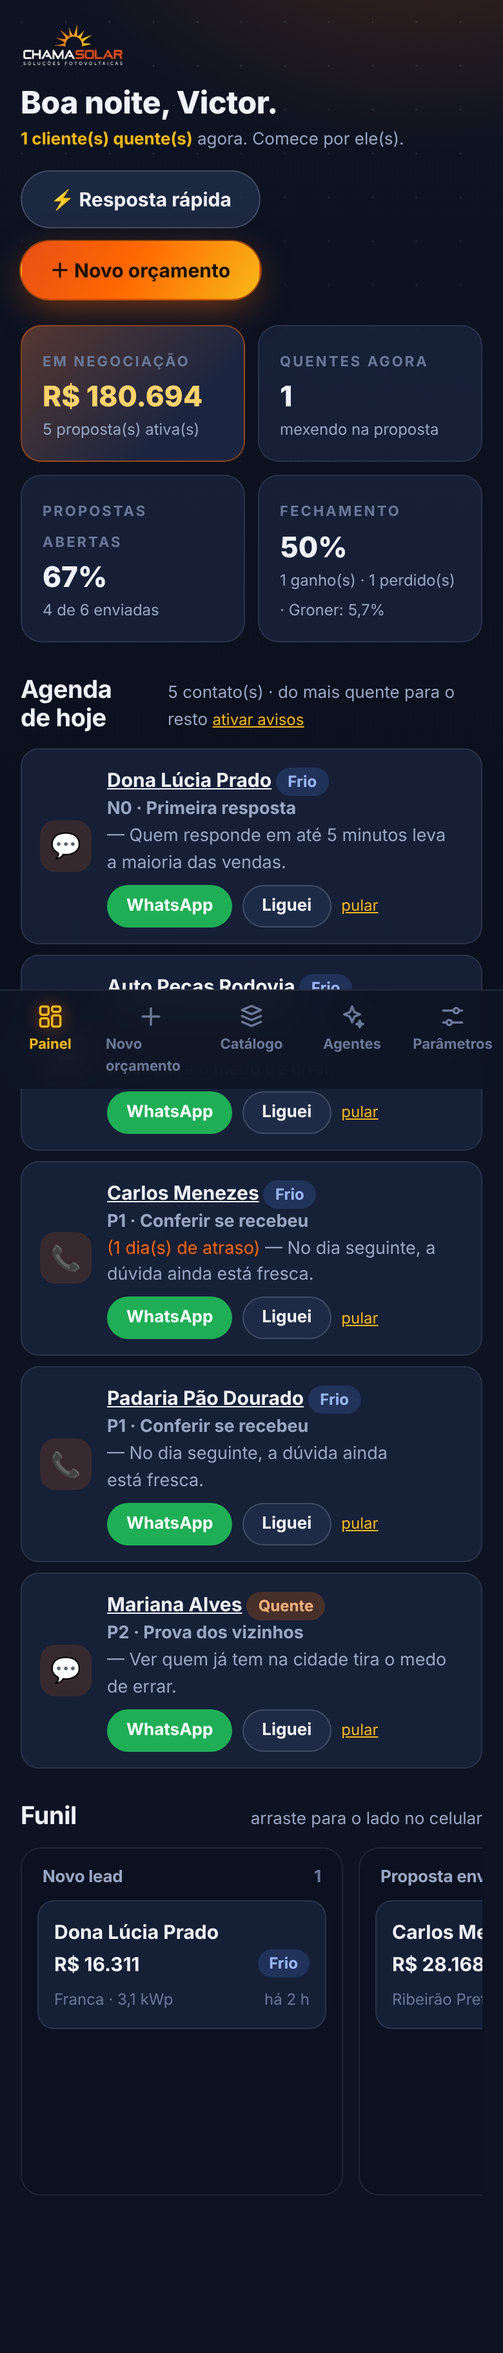
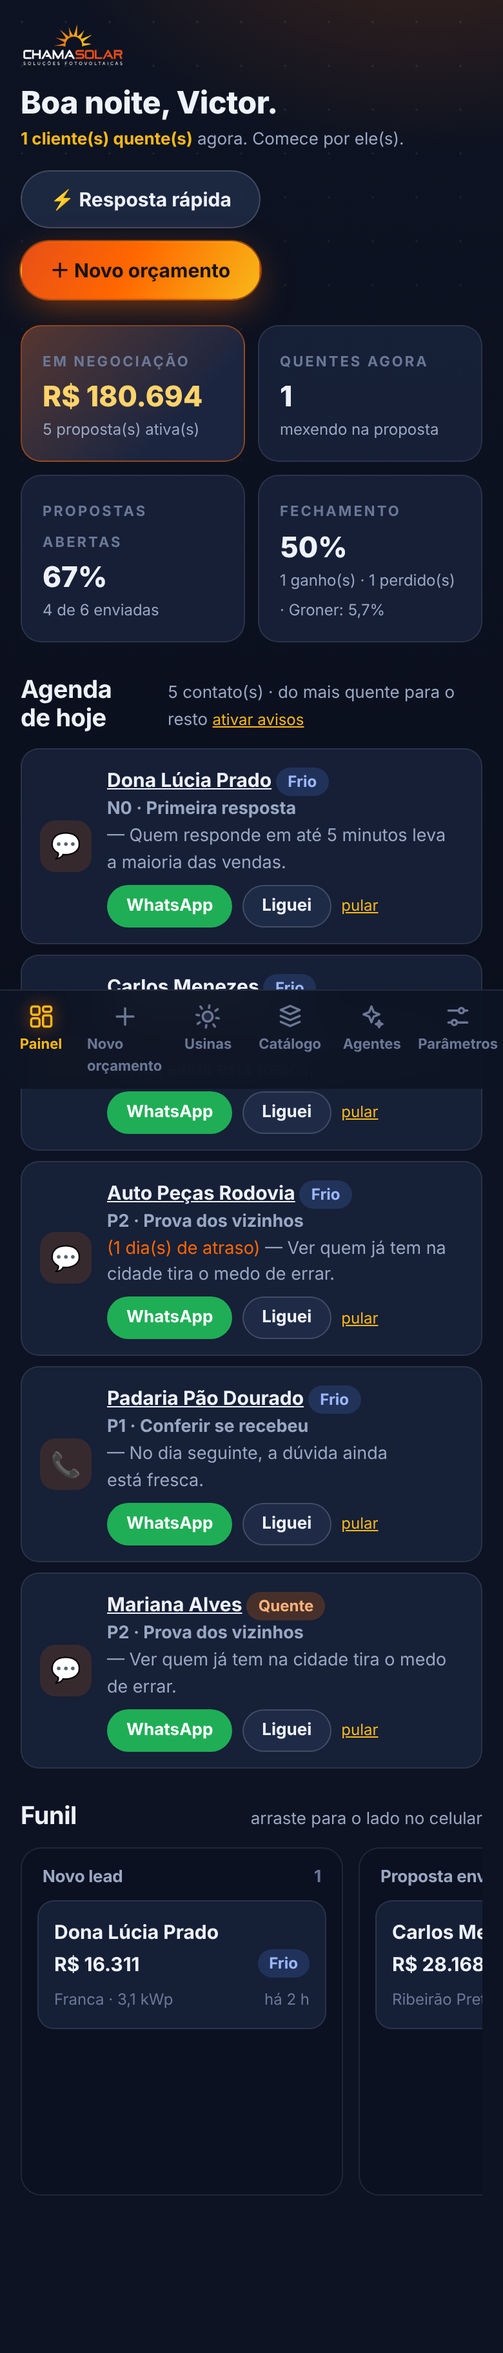
solar: usinas e geração (sol_usinas, sol_geracao), relatório mensal e alertas
Claude-Session: https://claude.ai/code/session_015QPda75H8frapF8mWbJQ5q

diff --git a/solar-teste/js/app.js b/solar-teste/js/app.js
@@ -168,6 +168,7 @@
           <button class="btn sol pequeno" id="docPdf">${Icone('documento')} Proposta em PDF</button>
           <button class="btn vidro pequeno" id="docContrato">Contrato</button>
           <button class="btn vidro pequeno" id="docProc">Procuração CPFL</button>
+          ${o.status === 'ganho' ? '<button class="btn vidro pequeno" id="virarUsina">Cadastrar usina</button>' : ''}
         </div>
         <details style="margin-top:10px"><summary class="link">Dados do cliente para contrato e procuração</summary>
           <div class="grade g2" style="margin-top:10px">${[['documento', 'CPF ou CNPJ'], ['rg', 'RG'], ['estadoCivil', 'Estado civil'], ['profissao', 'Profissão'], ['endereco', 'Endereço completo (rua, nº, bairro, cidade, CEP)'], ['instalacao', 'Nº da instalação na CPFL'], ['condicao', 'Condição de pagamento (ex.: entrada + 60x)']]
@@ -227,6 +228,7 @@
     $('#docPdf').onclick = () => { Documentos.proposta(o, p, o.status !== 'novo' ? link : null); B.interacao(o.id, 'nota', 'Gerou a proposta em PDF'); };
     $('#docContrato').onclick = () => Documentos.contrato(o, p);
     $('#docProc').onclick = () => Documentos.procuracao(o, p);
+    if ($('#virarUsina')) $('#virarUsina').onclick = () => { location.hash = '#usinas'; setTimeout(() => formUsina({ cliente_nome: o.nome, whatsapp: o.whatsapp, cidade: o.cidade, kwp: a.op.dim.kwpReal, marca: (C.equipamentos(a.op).fabInv || '').toLowerCase().replace(/^./, (x) => x.toUpperCase()), esperado_mes: a.op.dim.geracaoMes, tarifa_kwh: o.tarifaKwh }), 200); };
     $('#ctSalvar').onclick = () => { o.contrato = { ...(o.contrato || {}) }; app.querySelectorAll('[data-ct]').forEach((x) => { o.contrato[x.dataset.ct] = x.value.trim(); }); B.salvar(o); toast('Dados do contrato salvos'); ficha(o.id); };
     $('#abrirPV').onclick = () => { try { sessionStorage.setItem('sol2_abrir', JSON.stringify({ t: o.token, v: 1 })); } catch { /* sem armazenamento */ } };
     $('#enviarZap').onclick = () => { if (o.status === 'novo') { o.status = 'proposta'; o.enviadoEm = new Date().toISOString(); B.salvar(o); } B.interacao(o.id, 'whatsapp', 'Proposta enviada'); };
@@ -689,6 +691,66 @@
 
   /* ======================= CATÁLOGO ======================= */
   let filtroCat = 'modulo';
+  /* ======================= USINAS (monitoramento) ======================= */
+  function usinasPag() {
+    const U = window.Usinas, lista = B.usinas().filter((u) => u.ativo !== false);
+    const info = lista.map((u) => ({ u, g: B.geracao(u.id), s: U.situacao(u, B.geracao(u.id)) }));
+    const alertas = info.filter((x) => x.s.alerta);
+    const totalMes = info.reduce((t, x) => t + x.s.total, 0);
+    app.innerHTML = `${cabCelular()}<div class="cab entra"><div><h1>Usinas</h1><p class="sutil">Geração lida das plataformas dos fabricantes, comparada com o que a proposta prometeu.</p></div>
+        <div class="linha-h"><button class="btn vidro" id="usImp">Importar planilha</button><button class="btn sol" id="usNova">＋ Cadastrar usina</button></div></div>
+      <div class="kpis entra"><div class="kpi destaque"><span class="rotulo">Usinas</span><b>${lista.length}</b><span class="sutil">${n(lista.reduce((t, u) => t + Number(u.kwp), 0), 1)} kWp instalados</span></div>
+        <div class="kpi"><span class="rotulo">Geração no mês</span><b>${n(totalMes)} kWh</b><span class="sutil">todas as usinas</span></div>
+        <div class="kpi"><span class="rotulo">Precisam de atenção</span><b style="color:${alertas.length ? 'var(--laranja)' : 'inherit'}">${alertas.length}</b><span class="sutil">ligar antes do cliente perceber</span></div>
+        <div class="kpi"><span class="rotulo">Relatórios do mês</span><b>${info.filter((x) => x.s.total).length}</b><span class="sutil">prontos para mandar</span></div></div>
+      ${alertas.length ? `<div class="secao-t"><h2>Atenção</h2><span class="sutil">ligue para o cliente ou abra a plataforma do fabricante</span></div><div class="agora">${alertas.map(({ u, s }) => `<div class="acao p5"><div class="ic">⚠</div><div><b>${esc(u.cliente_nome)}</b> <span class="sutil">${esc(u.marca)} · ${n(u.kwp, 2)} kWp</span><p>${esc(s.alerta)}</p></div></div>`).join('')}</div>` : ''}
+      <div class="secao-t"><h2>Todas as usinas</h2><span class="sutil">este mês, proporcional aos dias com leitura</span></div>
+      <div class="ops-v duas">${info.map(({ u, s }) => `<div class="op-v" style="cursor:default">
+          <div class="entre"><b style="font-size:17px">${esc(u.cliente_nome)}</b><span class="mini">${esc(u.marca)}${u.plataforma_id ? ' · ' + esc(u.plataforma_id) : ''}</span></div>
+          <span class="mini">${esc(u.cidade || '')} · ${n(u.kwp, 2)} kWp · espera ${n(u.esperado_mes)} kWh/mês</span>
+          <div style="height:10px;border-radius:99px;background:var(--vidro);margin:10px 0 4px;overflow:hidden"><div style="height:100%;width:${Math.min((s.pct || 0) * 100, 100)}%;background:${s.pct === null ? 'transparent' : s.pct < 0.75 ? 'var(--laranja)' : 'var(--verde-claro)'}"></div></div>
+          <span class="mini">${s.pct === null ? 'sem leitura este mês' : `${n(s.total)} kWh · ${n(s.pct * 100)}% do esperado · ${brl(s.economiaMes)} de economia`}${s.ultimo ? ' · última leitura ' + s.ultimo.split('-').reverse().join('/') : ''}</span>
+          <div class="acoes-r" style="margin-top:10px"><button class="btn sol pequeno" data-us="rel" data-id="${u.id}">Relatório PDF</button><button class="btn zap pequeno" data-us="zap" data-id="${u.id}">WhatsApp</button><button class="btn vidro pequeno" data-us="imp" data-id="${u.id}">Importar</button><button class="link" data-us="edit" data-id="${u.id}">editar</button></div>
+        </div>`).join('') || '<p class="sutil">Nenhuma usina cadastrada. Comece pelas mais recentes.</p>'}</div>
+      <input type="file" id="usArq" accept=".csv,.txt,.tsv" hidden>`;
+    let alvo = null;
+    const arq = $('#usArq');
+    arq.onchange = async () => { const f = arq.files[0]; arq.value = ''; if (!f || !alvo) return; const linhas = U.lerPlanilha(await f.text()); if (!linhas.length) { toast('Não achei datas e kWh nesse arquivo. Exporte em CSV com data e energia.'); return; } await B.gravarGeracao(alvo, linhas); toast(linhas.length + ' dia(s) importados'); usinasPag(); };
+    $('#usNova').onclick = () => formUsina({});
+    $('#usImp').onclick = () => { if (!lista.length) { toast('Cadastre a usina primeiro'); return; } escolher(lista, (u) => { alvo = u.id; arq.click(); }); };
+    app.querySelectorAll('[data-us]').forEach((b) => b.onclick = () => {
+      const u = lista.find((x) => String(x.id) === b.dataset.id), g = B.geracao(u.id);
+      if (b.dataset.us === 'rel') U.relatorio(u, g);
+      else if (b.dataset.us === 'zap') window.open('https://wa.me/55' + String(u.whatsapp || '').replace(/\D/g, '').replace(/^55/, '') + '?text=' + encodeURIComponent(U.mensagem(u, g)), '_blank', 'noopener');
+      else if (b.dataset.us === 'imp') { alvo = u.id; arq.click(); }
+      else formUsina(u);
+    });
+  }
+  function escolher(lista, fn) {
+    const ov = document.createElement('div'); ov.style.cssText = 'position:fixed;inset:0;z-index:80;background:#0009;display:grid;place-items:center;padding:16px';
+    ov.innerHTML = `<div class="painel" style="max-width:420px;width:100%"><span class="rotulo">De qual usina é a planilha?</span><div style="display:grid;gap:8px;margin-top:10px">${lista.map((u) => `<button class="btn vidro" data-u="${u.id}">${esc(u.cliente_nome)} · ${esc(u.marca)}</button>`).join('')}</div></div>`;
+    ov.onclick = (e) => { const b = e.target.closest('[data-u]'); if (b) fn(lista.find((u) => String(u.id) === b.dataset.u)); ov.remove(); };
+    document.body.appendChild(ov);
+  }
+  function formUsina(u) {
+    const ov = document.createElement('div'); ov.style.cssText = 'position:fixed;inset:0;z-index:80;background:#0009;display:grid;place-items:center;padding:16px';
+    const campo = (k, r, t = 'text', extra = '') => `<label class="campo"><span>${r}</span><input data-f="${k}" type="${t}" step="any" value="${esc(u[k] ?? '')}" ${extra}></label>`;
+    ov.innerHTML = `<div class="painel" style="max-width:560px;width:100%;max-height:92vh;overflow:auto"><div class="entre"><span class="rotulo" style="color:var(--sol)">${u.id ? 'Editar usina' : 'Cadastrar usina'}</span><button class="link" data-x>fechar</button></div>
+      <div class="grade g2" style="margin-top:10px">${campo('cliente_nome', 'Cliente')}${campo('whatsapp', 'WhatsApp')}${campo('cidade', 'Cidade')}${campo('kwp', 'Potência (kWp)', 'number')}
+        <label class="campo"><span>Marca do inversor</span><select data-f="marca">${window.Usinas.MARCAS.map((m) => `<option ${m === u.marca ? 'selected' : ''}>${m}</option>`).join('')}</select></label>
+        ${campo('plataforma_id', 'ID da usina na plataforma')}${campo('ligada_em', 'Ligada em', 'date')}${campo('esperado_mes', 'Geração prometida (kWh/mês)', 'number')}${campo('tarifa_kwh', 'Tarifa (R$/kWh)', 'number')}</div>
+      <div class="acoes-r" style="margin-top:12px"><button class="btn sol" data-salvar>Salvar</button></div></div>`;
+    document.body.appendChild(ov);
+    ov.onclick = async (e) => {
+      if (e.target === ov || e.target.closest('[data-x]')) return ov.remove();
+      if (!e.target.closest('[data-salvar]')) return;
+      const novoU = { ...u }; ov.querySelectorAll('[data-f]').forEach((i) => { novoU[i.dataset.f] = i.type === 'number' ? (i.value === '' ? null : +i.value) : i.value.trim(); });
+      if (!novoU.cliente_nome || !novoU.kwp) { toast('Preencha cliente e potência'); return; }
+      if (!novoU.esperado_mes) novoU.esperado_mes = Math.round(novoU.kwp * ((D.cidades[novoU.cidade] || D.cidades['Ribeirão Preto']).hsp) * 30 * P().pr);
+      try { await B.salvarUsina(novoU); ov.remove(); toast('Usina salva'); usinasPag(); } catch (err) { toast('Não salvou: ' + err.message.slice(0, 80)); }
+    };
+  }
+
   function catalogoPag() {
     const K = window.Catalogo, c = K.ler();
     const itens = c.itens.filter((i) => i.tipo === filtroCat).sort((a, b) => (b.usar - a.usar) || (a.preco / (a.potenciaW || 1)) - (b.preco / (b.potenciaW || 1)));
@@ -737,7 +799,7 @@
     const [rota, arg] = h.startsWith('lead-') ? ['lead', h.slice(5)] : [h, null];
     document.querySelectorAll('[data-rota]').forEach((a) => a.classList.toggle('ativo', a.dataset.rota === (rota === 'lead' ? 'painel' : rota)));
     if (rota !== 'novo') { document.body.classList.remove('com-barra'); $('#barra').hidden = true; }
-    const ir = () => { if (rota === 'novo') { orc = B.rascunho.ler() || novoOrc(); etapa = B.rascunho.etapa(); novo(); } else if (rota === 'lead') ficha(arg); else if (rota === 'agentes') agentesPag(); else if (rota === 'catalogo') catalogoPag(); else if (rota === 'parametros') parametrosPag(); else painel(); };
+    const ir = () => { if (rota === 'novo') { orc = B.rascunho.ler() || novoOrc(); etapa = B.rascunho.etapa(); novo(); } else if (rota === 'lead') ficha(arg); else if (rota === 'agentes') agentesPag(); else if (rota === 'catalogo') catalogoPag(); else if (rota === 'usinas') usinasPag(); else if (rota === 'parametros') parametrosPag(); else painel(); };
     if (document.startViewTransition) {
       const t = document.startViewTransition(ir);
       [t.ready, t.finished, t.updateCallbackDone].forEach((pr) => pr && pr.catch(() => {})); // navegação rápida cancela a animação, sem problema

diff --git a/solar-teste/js/usinas.js b/solar-teste/js/usinas.js
@@ -1,0 +1,87 @@
+/* =====================================================================
+   USINAS — monitoramento direto das plataformas dos fabricantes.
+   Geração diária por usina (API do fabricante ou planilha exportada),
+   comparada com o que a proposta prometeu. Alerta quando cai, relatório
+   mensal em PDF e mensagem pronta (com pedido de indicação).
+   ===================================================================== */
+(function (raiz) {
+  'use strict';
+  const D = raiz.DadosTeste;
+  const MARCAS = ['Auxsol', 'Huawei', 'Deye', 'Growatt', 'Solis', 'Sungrow', 'GoodWe', 'Hoymiles', 'Outra'];
+  const n = (v, c = 0) => (Number(v) || 0).toLocaleString('pt-BR', { minimumFractionDigits: c, maximumFractionDigits: c });
+  const brl = (v) => (Number(v) || 0).toLocaleString('pt-BR', { style: 'currency', currency: 'BRL', maximumFractionDigits: 0 });
+  const esc = (s) => String(s ?? '').replace(/[&<>"]/g, (c) => ({ '&': '&amp;', '<': '&lt;', '>': '&gt;', '"': '&quot;' }[c]));
+  const MESES = ['janeiro', 'fevereiro', 'março', 'abril', 'maio', 'junho', 'julho', 'agosto', 'setembro', 'outubro', 'novembro', 'dezembro'];
+  const iso = (d) => d.toISOString().slice(0, 10);
+
+  /* ---------- situação da usina no mês ---------- */
+  function situacao(u, linhas, ref = new Date()) {
+    const mes = iso(ref).slice(0, 7);
+    const doMes = linhas.filter((l) => l.dia.startsWith(mes));
+    const total = doMes.reduce((s, l) => s + Number(l.kwh), 0);
+    const diasComDado = new Set(doMes.map((l) => l.dia)).size;
+    const esperadoDia = (Number(u.esperado_mes) || 0) / 30;
+    const esperadoAteAgora = esperadoDia * diasComDado;
+    const pct = esperadoAteAgora ? total / esperadoAteAgora : null;
+    const ultimo = linhas.reduce((m, l) => (l.dia > m ? l.dia : m), '');
+    const diasSemDado = ultimo ? Math.floor((ref - new Date(ultimo + 'T12:00:00')) / 864e5) : null;
+    const acumulado = linhas.reduce((s, l) => s + Number(l.kwh), 0);
+    const tarifa = Number(u.tarifa_kwh) || D.parametros.tarifaKwh;
+    let alerta = null;
+    if (diasSemDado === null) alerta = 'Sem leitura ainda';
+    else if (diasSemDado >= 3) alerta = `Sem dados há ${diasSemDado} dias: inversor desligado ou sem internet?`;
+    else if (pct !== null && diasComDado >= 5 && pct < 0.75) alerta = `Gerando ${n(pct * 100)}% do esperado: sujeira, sombra ou defeito?`;
+    return { mes, total, diasComDado, esperadoMes: Number(u.esperado_mes) || 0, pct, ultimo, diasSemDado, acumulado, economiaMes: total * tarifa, economiaTotal: acumulado * tarifa, alerta };
+  }
+
+  /* ---------- leitura de planilha exportada da plataforma ---------- */
+  function lerPlanilha(texto) {
+    const linhas = texto.replace(/\r/g, '').split('\n').filter((l) => l.trim());
+    const sep = [';', '\t', ','].sort((a, b) => (linhas[0].split(b).length - linhas[0].split(a).length))[0];
+    const cel = (l) => l.split(sep).map((c) => c.replace(/^"|"$/g, '').trim());
+    const dataDe = (s) => {
+      let m = s.match(/^(\d{4})-(\d{2})-(\d{2})/); if (m) return `${m[1]}-${m[2]}-${m[3]}`;
+      m = s.match(/^(\d{1,2})[/.-](\d{1,2})[/.-](\d{4})/); if (m) return `${m[3]}-${m[2].padStart(2, '0')}-${m[1].padStart(2, '0')}`;
+      m = s.match(/^(\d{1,2})[/.-](\d{4})$/); if (m) return `${m[2]}-${m[1].padStart(2, '0')}-01`;
+      return null;
+    };
+    const num = (s) => { const t = String(s).replace(/[^\d,.-]/g, ''); if (!t) return NaN; return +(t.includes(',') ? t.replace(/\./g, '').replace(',', '.') : t); };
+    // coluna da energia: pelo cabeçalho, senão a última numérica
+    const cab = cel(linhas[0]); let colE = cab.findIndex((c) => /kwh|energ|gera|yield|produ/i.test(c));
+    const saida = [];
+    for (const l of linhas) {
+      const c = cel(l); const iD = c.findIndex((x) => dataDe(x)); if (iD < 0) continue;
+      let v = colE >= 0 && colE !== iD ? num(c[colE]) : NaN;
+      if (isNaN(v)) { for (let k = c.length - 1; k >= 0; k--) if (k !== iD && !isNaN(num(c[k]))) { v = num(c[k]); break; } }
+      if (!isNaN(v) && v >= 0) saida.push({ dia: dataDe(c[iD]), kwh: v });
+    }
+    return saida;
+  }
+
+  /* ---------- relatório mensal em PDF ---------- */
+  function relatorio(u, linhas, ref = new Date()) {
+    const s = situacao(u, linhas, ref), [ano, mm] = s.mes.split('-');
+    const doMes = linhas.filter((l) => l.dia.startsWith(s.mes)).sort((a, b) => a.dia.localeCompare(b.dia));
+    const max = Math.max(...doMes.map((l) => Number(l.kwh)), 1);
+    const barras = doMes.map((l) => `<div title="${l.dia.slice(8)}: ${n(l.kwh, 1)} kWh" style="flex:1;background:#ff6700;border-radius:3px 3px 0 0;height:${Math.max(4, (Number(l.kwh) / max) * 120)}px"></div>`).join('');
+    const corpo = `
+      <h1>Sua usina em ${MESES[+mm - 1]} de ${ano}</h1>
+      <p class="mini">${esc(u.cliente_nome)} · ${n(u.kwp, 2)} kWp · ${esc(u.marca)}${u.ligada_em ? ' · ligada em ' + new Date(u.ligada_em + 'T12:00:00').toLocaleDateString('pt-BR') : ''}</p>
+      <div class="tres"><div><span>Gerou no mês</span><b>${n(s.total)} kWh</b></div><div><span>Economia no mês</span><b>${brl(s.economiaMes)}</b></div><div><span>Economia desde a ligação</span><b>${brl(s.economiaTotal)}</b></div></div>
+      <h2>Geração dia a dia</h2>
+      <div style="display:flex;align-items:flex-end;gap:3px;height:130px;border-bottom:1px solid #e3e6ec;padding:0 2px">${barras || '<p class="mini">Sem leituras neste mês.</p>'}</div>
+      <p class="mini">${s.diasComDado} dia(s) com leitura. ${s.pct !== null ? `A usina entregou ${n(s.pct * 100)}% do esperado para esses dias.` : ''} A geração varia com o clima: dias nublados geram menos.</p>
+      <h2>Tudo certo com a sua usina?</h2>
+      <p>${s.alerta ? `Vimos um ponto de atenção: <b>${esc(s.alerta)}</b> Já estamos olhando e vamos falar com você.` : 'Sim. A geração está dentro do esperado. Seguimos acompanhando todo dia.'}</p>
+      <div class="qr" style="border-style:solid;border-color:#ff6700"><div style="font-size:30px">🎁</div><div><b>Conhece alguém que paga caro de luz?</b><br><span class="mini">Indique para a Chama Solar. Se fechar, você ganha um presente de agradecimento.</span></div></div>
+      <p style="margin-top:18px" class="mini">Chama Solar · ${esc(D.empresa.endereco)} · ${esc(D.empresa.telefone)}</p>`;
+    raiz.Documentos.abrir(raiz.Documentos.pagina(`Relatório ${s.mes} · ${u.cliente_nome}`, corpo));
+  }
+
+  function mensagem(u, linhas, ref = new Date()) {
+    const s = situacao(u, linhas, ref), nome = String(u.cliente_nome).split(' ')[0], mes = MESES[+s.mes.slice(5) - 1];
+    return `Oi ${nome}! Aqui é o ${D.empresa.vendedor}, da Chama Solar ☀\n\nSua usina em ${mes}: gerou ${n(s.total)} kWh, uma economia de cerca de ${brl(s.economiaMes)}. Desde a ligação já foram ${brl(s.economiaTotal)} que ficaram no seu bolso.\n\n${s.alerta ? 'Vi um ponto de atenção e já estou olhando. Te aviso.' : 'Está tudo funcionando certinho.'}\n\nSe conhecer alguém pagando caro de luz, me indica? Tem um presente de agradecimento para você 🎁`;
+  }
+
+  raiz.Usinas = { MARCAS, situacao, lerPlanilha, relatorio, mensagem, iso };
+})(window);

diff --git a/solar-teste/js/banco-nuvem.js b/solar-teste/js/banco-nuvem.js
@@ -58,7 +58,7 @@
   }
 
   /* ---------- cache ---------- */
-  let orcs = [], eventos = [], interacoes = [], paramVigente = {}, publico = null;
+  let orcs = [], eventos = [], interacoes = [], paramVigente = {}, publico = null, usinas = [], geracaoPor = {};
   const dbid = {}; // ORC-0001 -> id no banco
 
   function linhaParaOrc(r) {
@@ -156,6 +156,22 @@
       });
     },
 
+    /* ---------- usinas instaladas e geração diária ---------- */
+    usinas() { return usinas; },
+    geracao(id) { return (geracaoPor[id] || []).slice(); },
+    async salvarUsina(u) {
+      const campos = ['orcamento_id', 'cliente_nome', 'whatsapp', 'cidade', 'kwp', 'marca', 'plataforma_id', 'ligada_em', 'esperado_mes', 'tarifa_kwh', 'ativo', 'obs'];
+      const corpo = Object.fromEntries(campos.filter((c) => u[c] !== undefined).map((c) => [c, u[c] === '' ? null : u[c]]));
+      const r = u.id ? await api('sol_usinas?id=eq.' + u.id, { method: 'PATCH', headers: { Prefer: 'return=representation' }, body: JSON.stringify(corpo) })
+        : await api('sol_usinas', { method: 'POST', headers: { Prefer: 'return=representation' }, body: JSON.stringify(corpo) });
+      const salvo = r[0]; const i = usinas.findIndex((x) => x.id === salvo.id); i >= 0 ? (usinas[i] = salvo) : usinas.push(salvo); aviso('Salvo ✓'); return salvo;
+    },
+    async gravarGeracao(id, linhas) {
+      for (let i = 0; i < linhas.length; i += 500) await api('sol_geracao?on_conflict=usina_id,dia', { method: 'POST', headers: { Prefer: 'resolution=merge-duplicates' }, body: JSON.stringify(linhas.slice(i, i + 500).map((l) => ({ usina_id: id, dia: l.dia, kwh: l.kwh, origem: 'planilha' }))) });
+      const m = Object.fromEntries((geracaoPor[id] || []).map((l) => [l.dia, l])); linhas.forEach((l) => { m[l.dia] = { dia: l.dia, kwh: l.kwh }; });
+      geracaoPor[id] = Object.values(m).sort((a, b) => a.dia.localeCompare(b.dia)); aviso('Salvo ✓'); return linhas.length;
+    },
+
     semear() { /* no oficial não existem leads de exemplo */ },
     zerarTudo() { ['rascunho', 'etapa'].forEach((k) => { try { localStorage.removeItem(LOCAL + k); } catch { /* */ } }); },
     rascunho: { ler: () => lerL('rascunho', null), gravar: (v) => gravarL('rascunho', v), etapa: () => lerL('etapa', 0), gravarEtapa: (e) => gravarL('etapa', e) },
@@ -173,6 +189,9 @@
       eventos = ev.map((e) => ({ token: (porId[e.orcamento_id] || {}).token_publico, tipo: e.tipo, dados: e.dados, em: e.em }));
       interacoes = it.map((i) => ({ orcId: (porId[i.orcamento_id] || {}).codigo, tipo: i.tipo, texto: i.texto, em: i.em }));
       paramVigente = (pr[0] && pr[0].dados) || {};
+      const desde = new Date(Date.now() - 400 * 864e5).toISOString().slice(0, 10);
+      const [us, ge] = await Promise.all([api('sol_usinas?select=*&order=cliente_nome.asc'), api('sol_geracao?select=usina_id,dia,kwh&dia=gte.' + desde + '&order=dia.asc&limit=100000')]);
+      usinas = us; geracaoPor = {}; ge.forEach((g) => { (geracaoPor[g.usina_id] = geracaoPor[g.usina_id] || []).push({ dia: g.dia, kwh: +g.kwh }); });
     },
     /* proposta aberta pelo cliente: só a vitrine, pelo token */
     async carregarPublica(t) {

diff --git a/solar-teste/js/banco.js b/solar-teste/js/banco.js
@@ -87,7 +87,25 @@
       });
       gravar('semeado', true);
     },
-    zerarTudo() { ['orcamentos', 'eventos', 'interacoes', 'semeado', 'rascunho', 'etapa'].forEach((k) => { try { localStorage.removeItem(PREFIXO + k); } catch { /* sem armazenamento */ } }); },
+    zerarTudo() { ['orcamentos', 'eventos', 'interacoes', 'semeado', 'rascunho', 'etapa', 'usinas', 'geracao'].forEach((k) => { try { localStorage.removeItem(PREFIXO + k); } catch { /* sem armazenamento */ } }); },
+    /* ---------- usinas instaladas e geração diária ---------- */
+    usinas() {
+      let u = ler('usinas', null);
+      if (!u) { // exemplo para o teste
+        u = [{ id: 1, cliente_nome: 'Rosa Martins', cidade: 'Ribeirão Preto', kwp: 4.11, marca: 'Auxsol', plataforma_id: 'AX-1001', ligada_em: '2025-08-12', esperado_mes: 480, tarifa_kwh: 0.98, whatsapp: '16 99100-0001' },
+          { id: 2, cliente_nome: 'Mercado Bom Preço', cidade: 'Sertãozinho', kwp: 16.44, marca: 'Huawei', plataforma_id: 'HW-2203', ligada_em: '2025-03-02', esperado_mes: 1950, tarifa_kwh: 0.92, whatsapp: '16 99100-0002' },
+          { id: 3, cliente_nome: 'João Batista', cidade: 'Franca', kwp: 6.17, marca: 'Deye', plataforma_id: 'DY-3310', ligada_em: '2026-01-20', esperado_mes: 730, tarifa_kwh: 0.98, whatsapp: '16 99100-0003' }];
+        gravar('usinas', u);
+        const g = {}, hoje = new Date();
+        u.forEach((x, k) => { g[x.id] = []; for (let d = 50; d >= (k === 2 ? 5 : 1); d--) { const dia = new Date(hoje - d * 864e5).toISOString().slice(0, 10); const f = k === 1 ? 0.62 : 0.95; g[x.id].push({ dia, kwh: +((x.esperado_mes / 30) * f * (0.75 + Math.random() * 0.45)).toFixed(1) }); } });
+        gravar('geracao', g);
+      }
+      return u;
+    },
+    geracao(id) { return (ler('geracao', {})[id] || []).slice(); },
+    async salvarUsina(u) { const lista = this.usinas(); if (!u.id) u.id = lista.reduce((m, x) => Math.max(m, x.id), 0) + 1; const i = lista.findIndex((x) => x.id === u.id); i >= 0 ? (lista[i] = u) : lista.push(u); gravar('usinas', lista); return u; },
+    async gravarGeracao(id, linhas) { const g = ler('geracao', {}); const m = Object.fromEntries((g[id] || []).map((l) => [l.dia, l])); linhas.forEach((l) => { m[l.dia] = { dia: l.dia, kwh: l.kwh }; }); g[id] = Object.values(m).sort((a, b) => a.dia.localeCompare(b.dia)); gravar('geracao', g); return linhas.length; },
+
     rascunho: { ler: () => ler('rascunho', null), gravar: (v) => gravar('rascunho', v), etapa: () => ler('etapa', 0), gravarEtapa: (e) => gravar('etapa', e) },
   };
 

diff --git a/solar-teste/index.html b/solar-teste/index.html
@@ -20,6 +20,7 @@
     <nav class="nav" aria-label="Principal">
       <a href="#painel" data-rota="painel"><span><i data-ico="painelControle"></i></span>Painel</a>
       <a href="#novo" data-rota="novo"><span><i data-ico="mais"></i></span>Novo orçamento</a>
+      <a href="#usinas" data-rota="usinas"><span><i data-ico="sol"></i></span>Usinas</a>
       <a href="#catalogo" data-rota="catalogo"><span><i data-ico="catalogo"></i></span>Catálogo</a>
       <a href="#agentes" data-rota="agentes"><span><i data-ico="agentes"></i></span>Agentes</a>
       <a href="#parametros" data-rota="parametros"><span><i data-ico="ajustes"></i></span>Parâmetros</a>
@@ -43,6 +44,7 @@
   <script src="js/agentes.js"></script>
   <script src="js/documentos.js"></script>
   <script src="js/cadencia.js"></script>
+  <script src="js/usinas.js"></script>
   <script src="js/leitor-conta.js"></script>
   <script src="js/cotador.js"></script>
   <script src="js/app.js"></script>

diff --git a/solar-teste/css/app.css b/solar-teste/css/app.css
@@ -4,7 +4,7 @@ body { padding-bottom: 84px; }
 /* Lateral (PC) / barra de abas (celular) */
 .lateral { position: fixed; z-index: 30; left: 0; right: 0; bottom: 0; background: color-mix(in srgb, var(--noite) 88%, transparent); backdrop-filter: blur(16px); border-top: 1px solid var(--linha); padding-bottom: env(safe-area-inset-bottom); }
 .lateral .logo, .lateral .selo-teste { display: none; }
-.nav { display: grid; grid-template-columns: repeat(5, 1fr); }
+.nav { display: grid; grid-template-columns: repeat(6, 1fr); }
 .nav a { display: flex; flex-direction: column; align-items: center; gap: 2px; padding: 9px 4px; text-decoration: none; color: var(--texto-3); font-size: 11px; font-weight: 700; }
 .nav a span { font-size: 19px; line-height: 1; }
 .nav a.ativo { color: var(--sol); }

diff --git a/solar-teste/js/documentos.js b/solar-teste/js/documentos.js
@@ -145,5 +145,5 @@
     return f;
   }
 
-  raiz.Documentos = { proposta, contrato, procuracao, faltando, empresaDe };
+  raiz.Documentos = { proposta, contrato, procuracao, faltando, empresaDe, pagina, abrir };
 })(window);
